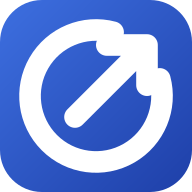
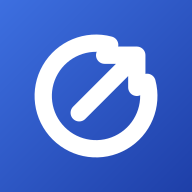
fix(nav): #878 L2 修后——设置 viewer 门控/跨 UA 设置子页映射/改密关闭收口/收起 aria/全幅图标
- Blocker1: 桌面/移动设置页壳补 AdminGuard，钻取子页对 viewer 整体回退（不只 logs）
- Blocker2: proxy 将桌面 UA 的 /m/settings/[section] 显式映射到 /settings?tab=，SettingsContent 读 tab 选分区
- Suggestion3: 改密弹窗取消/Esc/遮罩/关闭统一清空表单，isPending 禁止关闭
- Suggestion4: 收起侧栏导航 Link 固定 aria-label，补可访问名称回归
- Suggestion5: logo-app.svg 与 PWA/Apple PNG 改全幅不透明、mark 收进 maskable 安全区
- 新增 e2e/settings-redesign.spec.ts 覆盖上述回归；同步 visual-spec §20 与 README_ICONS

diff --git a/frontend/e2e/settings-redesign.spec.ts b/frontend/e2e/settings-redesign.spec.ts
@@ -1,0 +1,152 @@
+/** #878 L2 修后回归：设置角色门控 / 跨 UA 设置子页映射 / 改密弹窗关闭收口 / 收起侧栏可访问名称。
+ * 默认 admin 会话（auth.setup）；viewer 用例清凭证后走真实登录流（VIEWER/viewer123 种子）。
+ * 改密用例 mock /api/auth/password，不真改共享种子密码。
+ */
+import { test, expect, type Page } from '@playwright/test';
+import { collectPageErrors } from './helpers';
+
+const SECTIONS = [
+  { key: 'appearance', title: '外观与主题', tab: '通用' },
+  { key: 'datasource', title: '数据源', tab: '通用' },
+  { key: 'system', title: '系统信息', tab: '通用' },
+  { key: 'calendar', title: '交易日历同步', tab: '交易日历同步' },
+  { key: 'logs', title: '日志管理', tab: '日志管理' },
+] as const;
+
+/** 换 viewer 会话（沿用 portfolio-delete / cash-flows 的既有形态：清凭证后真实登录流） */
+async function loginAsViewer(page: Page): Promise<void> {
+  await page.context().clearCookies();
+  await page.evaluate(() => window.localStorage.clear());
+  await page.goto('/login');
+  await page.getByLabel('用户名').fill('VIEWER');
+  await page.getByLabel('密码').fill('viewer123');
+  await page.getByRole('button', { name: '登录' }).click();
+  await page.waitForURL(/\/(m\/)?dashboard/, { waitUntil: 'domcontentloaded' });
+}
+
+test.describe('设置角色门控（#878 L2 Blocker 1）', () => {
+  test('viewer 深链设置首页与钻取子页均被拦截，不渲染管理卡片', async ({ page }) => {
+    const errors = collectPageErrors(page, { tolerateLoginRaceNoise: true });
+    await loginAsViewer(page);
+    // 设置首页（桌面 /settings、移动 /m/settings 由 proxy 分流）+ 两个非 logs 钻取子页：
+    // 修复前钻取页只拦 logs，viewer 可直达数据源/日历；修复后整体回退到首页 AdminGuard。
+    for (const path of ['/settings', '/m/settings/datasource', '/m/settings/calendar']) {
+      await page.goto(path);
+      await expect(page.getByText('无权限访问', { exact: true })).toBeVisible();
+      await expect(page.getByRole('heading', { name: '设置', exact: true })).toHaveCount(0);
+      await expect(page.getByText('数据源', { exact: true })).toHaveCount(0);
+    }
+    expect(errors).toEqual([]);
+  });
+
+  test('viewer 仍可从账户菜单修改密码（设置外全角色入口）', async ({ page }) => {
+    await loginAsViewer(page);
+    await page.getByRole('button', { name: '用户菜单', exact: true }).click();
+    await page.getByRole('menuitem', { name: '修改密码' }).click();
+    await expect(
+      page.getByRole('dialog').filter({ hasText: '修改您的登录密码' }),
+    ).toBeVisible();
+  });
+
+  test('admin 五个移动钻取分区保持可达', async ({ page }, testInfo) => {
+    test.skip(
+      testInfo.project.name !== 'mobile',
+      '移动钻取分区仅移动项目（桌面为三 Tab，由跨 UA 映射用例覆盖）',
+    );
+    for (const s of SECTIONS) {
+      await page.goto(`/m/settings/${s.key}`);
+      await expect(page.getByRole('link', { name: '返回设置' })).toBeVisible();
+      await expect(page.getByRole('heading', { level: 1, name: s.title, exact: true })).toBeVisible();
+    }
+  });
+});
+
+test.describe('跨 UA 设置子页映射（#878 L2 Blocker 2）', () => {
+  test('桌面 UA 打开移动设置子页落到 /settings 对应 Tab，不 404', async ({ page }, testInfo) => {
+    test.skip(
+      testInfo.project.name !== 'chromium',
+      '桌面 UA 映射仅桌面项目（移动 UA 保持钻取，由另一条覆盖）',
+    );
+    for (const s of SECTIONS) {
+      await page.goto(`/m/settings/${s.key}`);
+      await page.waitForURL(/\/settings\?tab=/);
+      await expect(page.getByRole('tab', { name: s.tab, exact: true })).toHaveAttribute(
+        'aria-selected',
+        'true',
+      );
+    }
+    // 非法 section 落通用 Tab，不 404
+    await page.goto('/m/settings/bogus');
+    await page.waitForURL(/\/settings\?tab=/);
+    await expect(page.getByRole('tab', { name: '通用', exact: true })).toHaveAttribute(
+      'aria-selected',
+      'true',
+    );
+  });
+
+  test('移动 UA 打开设置子页保持钻取子页（行为不变）', async ({ page }, testInfo) => {
+    test.skip(testInfo.project.name !== 'mobile', '移动钻取仅移动项目');
+    for (const s of SECTIONS) {
+      await page.goto(`/m/settings/${s.key}`);
+      await expect(page.getByRole('link', { name: '返回设置' })).toBeVisible();
+      await expect(page.getByRole('heading', { level: 1, name: s.title, exact: true })).toBeVisible();
+    }
+  });
+});
+
+test.describe('改密弹窗关闭收口（#878 L2 Suggestion 3）', () => {
+  test('取消后重开表单为空；pending 时取消禁用且 Esc 不关闭', async ({ page }) => {
+    let release!: () => void;
+    const gate = new Promise<void>((resolve) => { release = resolve; });
+    await page.route('**/api/auth/password', async (route) => {
+      await gate;
+      await route.fulfill({ status: 200, json: { message: '密码修改成功' } });
+    });
+    await page.goto('/dashboard');
+    const openDialog = async () => {
+      await page.getByRole('button', { name: '用户菜单', exact: true }).click();
+      await page.getByRole('menuitem', { name: '修改密码' }).click();
+      await expect(page.getByLabel('原密码', { exact: true })).toBeVisible();
+    };
+    const fill = async () => {
+      await page.getByLabel('原密码', { exact: true }).fill('admin@2026');
+      await page.getByLabel('新密码', { exact: true }).fill('test-next-password');
+      await page.getByLabel('确认新密码', { exact: true }).fill('test-next-password');
+    };
+
+    // 取消 → 重开应为空表单（修复前取消绕过清空逻辑，重开残留）
+    await openDialog();
+    await fill();
+    await page.getByRole('button', { name: '取消', exact: true }).click();
+    await expect(page.getByLabel('原密码', { exact: true })).toHaveCount(0);
+    await openDialog();
+    await expect(page.getByLabel('原密码', { exact: true })).toHaveValue('');
+    await expect(page.getByLabel('新密码', { exact: true })).toHaveValue('');
+    await expect(page.getByLabel('确认新密码', { exact: true })).toHaveValue('');
+
+    // 提交进入 pending：取消禁用、Esc 不关闭（mutation 不可中止，避免误解为撤销）
+    await fill();
+    await page.getByRole('button', { name: '修改密码', exact: true }).click();
+    await expect(page.getByRole('button', { name: '取消', exact: true })).toBeDisabled();
+    await page.keyboard.press('Escape');
+    await expect(page.getByLabel('原密码', { exact: true })).toBeVisible();
+    release();
+    await page.waitForURL(/\/(m\/)?login/);
+  });
+});
+
+test.describe('收起侧栏导航可访问名称（#878 L2 Suggestion 4）', () => {
+  test('收起后主导航链接仍按名称可访问（aria-label，非仅 Tooltip）', async ({ page }, testInfo) => {
+    test.skip(
+      testInfo.project.name !== 'chromium',
+      '桌面侧栏仅桌面项目（移动无侧栏，账户/导航走底部 Tab）',
+    );
+    await page.goto('/dashboard');
+    await page.getByRole('button', { name: '收起侧栏', exact: true }).click();
+    for (const label of ['首页', '组合', '产品', '设置']) {
+      const link = page.getByRole('link', { name: label, exact: true });
+      await expect(link).toBeVisible();
+      await expect(link).toHaveAttribute('aria-label', label);
+    }
+  });
+});

diff --git a/frontend/src/components/shared/SettingsContent.tsx b/frontend/src/components/shared/SettingsContent.tsx
@@ -1,5 +1,7 @@
 "use client";
 
+import { Suspense } from "react";
+import { useSearchParams } from "next/navigation";
 import { Tabs, TabsContent, TabsList, TabsTrigger } from "@/components/ui/tabs";
 import { useRoleCheck } from "@/hooks/useAuth";
 import LogsContent from "@/components/shared/LogsContent";
@@ -16,9 +18,15 @@ import {
  * 交易日历同步、日志管理（admin）。原「修改密码」Tab 改为弹窗（PasswordCard 触发），
  * 平台/投资人管理移出设置（语境分布：平台在产品页、投资人在组合页）。
  * 移动端走分组列表 + 钻取子页（MobileSettingsList / app/m/settings/[section]），不用本组件。
+ *
+ * ?tab= 深链（#878 L2 Blocker 2）：移动设置子页在桌面 UA 经 proxy 映射到 /settings?tab=，
+ * 这里据此选中对应分区（calendar/logs，其余落通用）。useSearchParams 需 Suspense 边界。
  */
-export default function SettingsContent() {
+function SettingsTabs() {
   const { isAdmin } = useRoleCheck();
+  const searchParams = useSearchParams();
+  const tabParam = searchParams.get("tab");
+  const defaultTab = tabParam === "calendar" || tabParam === "logs" ? tabParam : "general";
 
   return (
     <div className="space-y-6">
@@ -27,7 +35,7 @@ export default function SettingsContent() {
         <p className="text-muted-foreground">系统设置和配置</p>
       </div>
 
-      <Tabs defaultValue="general" className="space-y-4">
+      <Tabs defaultValue={defaultTab} className="space-y-4">
         <TabsList>
           <TabsTrigger value="general">通用</TabsTrigger>
           <TabsTrigger value="calendar">交易日历同步</TabsTrigger>
@@ -53,5 +61,13 @@ export default function SettingsContent() {
         )}
       </Tabs>
     </div>
+  );
+}
+
+export default function SettingsContent() {
+  return (
+    <Suspense fallback={null}>
+      <SettingsTabs />
+    </Suspense>
   );
 }

diff --git a/frontend/src/components/shared/ChangePasswordDialog.tsx b/frontend/src/components/shared/ChangePasswordDialog.tsx
@@ -32,6 +32,14 @@ export default function ChangePasswordDialog({ open, onOpenChange }: ChangePassw
   const changePassword = useChangePassword();
   const [form, setForm] = useState({ old_password: "", new_password: "", confirm_password: "" });
 
+  // 统一关闭收口：取消/Esc/遮罩/右上角关闭都经此清空表单；提交进行中禁止关闭，
+  // 避免「取消」被误解为撤销已提交的改密（mutation 不可中止，成功后仍会登出）。
+  const requestClose = () => {
+    if (changePassword.isPending) return;
+    setForm({ old_password: "", new_password: "", confirm_password: "" });
+    onOpenChange(false);
+  };
+
   const handleSubmit = (e: React.FormEvent) => {
     e.preventDefault();
     if (form.new_password !== form.confirm_password) {
@@ -57,8 +65,8 @@ export default function ChangePasswordDialog({ open, onOpenChange }: ChangePassw
     <Dialog
       open={open}
       onOpenChange={(next) => {
-        if (!next) setForm({ old_password: "", new_password: "", confirm_password: "" });
-        onOpenChange(next);
+        if (next) onOpenChange(true);
+        else requestClose();
       }}
     >
       <DialogContent>
@@ -98,7 +106,7 @@ export default function ChangePasswordDialog({ open, onOpenChange }: ChangePassw
             />
           </div>
           <DialogFooter>
-            <Button type="button" variant="outline" onClick={() => onOpenChange(false)}>
+            <Button type="button" variant="outline" onClick={requestClose} disabled={changePassword.isPending}>
               取消
             </Button>
             <Button type="submit" disabled={changePassword.isPending}>

diff --git a/frontend/src/proxy.ts b/frontend/src/proxy.ts
@@ -1,6 +1,17 @@
 import { NextResponse } from "next/server";
 import type { NextRequest } from "next/server";
 
+// 移动设置钻取子页 section → 桌面 /settings 的 Tab（#878 L2 Blocker 2）。桌面设置是
+// 单页三 Tab，没有 /settings/[section] 同形动态路由，机械去 /m 会 404；appearance/
+// datasource/system 都落在「通用」Tab，calendar/logs 各自成 Tab。未知 section 落 general。
+const SETTINGS_SECTION_TAB: Record<string, string> = {
+  appearance: "general",
+  datasource: "general",
+  system: "general",
+  calendar: "calendar",
+  logs: "logs",
+};
+
 export function proxy(request: NextRequest) {
   const userAgent = request.headers.get("user-agent") || "";
   const isMobile = /Mobile|Android|iPhone|iPad|iPod/i.test(userAgent);
@@ -29,6 +40,14 @@ export function proxy(request: NextRequest) {
   }
 
   if (!isMobile && pathname.startsWith("/m")) {
+    // 设置钻取子页显式映射到 /settings?tab=（保留原 query），不落到不存在的同形路径
+    const section = pathname.match(/^\/m\/settings\/([^/]+)$/)?.[1];
+    if (section) {
+      const url = new URL("/settings", request.url);
+      url.search = request.nextUrl.search;
+      url.searchParams.set("tab", SETTINGS_SECTION_TAB[section] ?? "general");
+      return NextResponse.redirect(url);
+    }
     const desktopPath = pathname.slice(2) || "/";
     return redirectWithQuery(desktopPath);
   }

diff --git a/frontend/src/app/m/settings/[section]/page.tsx b/frontend/src/app/m/settings/[section]/page.tsx
@@ -16,15 +16,16 @@ import {
 
 /**
  * 移动设置钻取子页（#878）：/m/settings/[section]。非一级 Tab，MobileLayout 不渲染底部
- * 导航，本页自带「返回设置」出口。section 与 MobileSettingsList 的行一一对应；
- * 日志管理 admin-only，viewer 直达 URL 时弹回设置首页。
+ * 导航，本页自带「返回设置」出口。section 与 MobileSettingsList 的行一一对应。
+ * 设置整体 admin-only（#878 验收：viewer 深链拦截）：viewer 直达任意 section 都弹回
+ * 设置首页，由首页 AdminGuard 呈无权限态；非法 section 同样弹回。
  */
-const SECTIONS: Record<string, { title: string; admin?: boolean }> = {
+const SECTIONS: Record<string, { title: string }> = {
   appearance: { title: "外观与主题" },
   datasource: { title: "数据源" },
   system: { title: "系统信息" },
   calendar: { title: "交易日历同步" },
-  logs: { title: "日志管理", admin: true },
+  logs: { title: "日志管理" },
 };
 
 export default function MobileSettingsSectionPage() {
@@ -33,7 +34,7 @@ export default function MobileSettingsSectionPage() {
   const { isAdmin } = useRoleCheck();
   const section = params.section;
   const meta = SECTIONS[section];
-  const forbidden = !meta || (meta.admin && !isAdmin);
+  const forbidden = !meta || !isAdmin;
 
   useEffect(() => {
     if (forbidden) router.replace("/m/settings");

diff --git a/frontend/src/app/m/settings/page.tsx b/frontend/src/app/m/settings/page.tsx
@@ -1,9 +1,15 @@
 "use client";
 
+import AdminGuard from "@/components/shared/AdminGuard";
 import { MobileSettingsList } from "@/components/shared/settingsSections";
 
 // 薄壳页：MobileLayout 由 app/m/layout.tsx 统一提供。移动设置为分组列表 + 行级钻取
-// 子页（/m/settings/[section]），不再用桌面 Tabs（#878）。
+// 子页（/m/settings/[section]），不再用桌面 Tabs（#878）。设置 admin-only，viewer
+// 深链由 AdminGuard 拦截（#878 验收）；全角色改密走移动首页账户区。
 export default function MobileSettingsPage() {
-  return <MobileSettingsList />;
+  return (
+    <AdminGuard>
+      <MobileSettingsList />
+    </AdminGuard>
+  );
 }

diff --git a/frontend/src/app/settings/page.tsx b/frontend/src/app/settings/page.tsx
@@ -1,12 +1,17 @@
 "use client";
 
 import MainLayout from "@/components/layout/MainLayout";
+import AdminGuard from "@/components/shared/AdminGuard";
 import SettingsContent from "@/components/shared/SettingsContent";
 
+// 设置为 admin-only（navItems.adminOnly，#878 验收：viewer 深链须 AdminGuard 拦截）。
+// 全角色改密由设置外的 AccountMenu 提供，不依赖本页可达。
 export default function SettingsPage() {
   return (
     <MainLayout>
-      <SettingsContent />
+      <AdminGuard>
+        <SettingsContent />
+      </AdminGuard>
     </MainLayout>
   );
 }

diff --git a/frontend/src/components/layout/Sidebar.tsx b/frontend/src/components/layout/Sidebar.tsx
@@ -61,6 +61,7 @@ export default function Sidebar() {
               <Link
                 key={item.href}
                 href={item.href}
+                aria-label={item.label}
                 aria-current={isActive ? "page" : undefined}
                 className={cn(
                   "flex items-center rounded-lg text-sm font-medium transition-colors",

diff --git a/docs/design/visual-spec.md b/docs/design/visual-spec.md
@@ -363,7 +363,7 @@
 ### 20.2 桌面侧栏尺寸与收起
 
 - 侧栏 `components/layout/Sidebar.tsx`：展开 **224px（`w-56`）** / 收起 **56px（`w-14`）**，`transition-[width]`。宽度事实以组件 + `e2e/cash-flows.spec.ts`「sidebar 保 224px」用例为准（**不是 §5**，§5 是字号四级）。
-- 收起偏好持久化在 `uiStore.sidebarCollapsed`（persist name `ui-storage`），`toggleSidebarCollapse` 切换；收起态主导航仅图标 + 右侧 Tooltip 补标签，顶部 Logo 仅 mark。
+- 收起偏好持久化在 `uiStore.sidebarCollapsed`（persist name `ui-storage`），`toggleSidebarCollapse` 切换；收起态主导航仅图标 + 右侧 Tooltip 补标签，顶部 Logo 仅 mark。导航 `Link` 固定 `aria-label={item.label}`——收起后文本不渲染，Tooltip 只是视觉提示、不构成链接的 accessible name，读屏/语音控制靠 aria-label 区分各项。
 - **原顶部 `Navbar` 整体移除**：Logo / 账户 / 通知都收进侧栏。桌面窄屏（`<lg`，侧栏 `hidden lg:flex`）由 `MainLayout` 的 `lg:hidden` 紧凑头部（`h-14`：Logo + 通知铃铛 + 账户菜单）兜底账户可达；任意宽度下「用户菜单」触发器恰好一个可见（宽屏在侧栏、窄屏在头部），E2E `getByRole` 不歧义。
 
 ### 20.3 账户区位置
@@ -374,12 +374,14 @@
 
 ### 20.4 设置页结构（桌面三 Tab / 移动分组列表）
 
-- **桌面**（`SettingsContent.tsx`，仅桌面）：三 Tab——**通用**（合并 外观与主题 / 账户安全 / 数据源 / 系统信息 四卡）、**交易日历同步**、**日志管理**（admin-only，水合前按非 admin 不渲染，承继 #715）。分区卡片在 `settingsSections.tsx`（`AppearanceCard` / `PasswordCard` / `DataSourceCard` / `SystemInfoCard` / `CalendarSyncCard`）。
-- **移动**（`app/m/settings`）：分组列表 `MobileSettingsList`——**通用**组（外观与主题 / 数据源 / 修改密码 / 系统信息）+ **系统维护**组（交易日历同步 / 日志管理 admin-only）。行级钻取到 `app/m/settings/[section]`（appearance / datasource / system / calendar / logs），子页自带「返回设置」链接、**不渲染底部 Tab**（`MobileLayout` 只在一级 Tab 页显示底部导航，子页既非一级 Tab 也非 `mobileExitPaths` 出口）。非法/越权 section `router.replace("/m/settings")`。
-- **修改密码 = 弹窗，双入口**（`ChangePasswordDialog`）：用户菜单（全角色）+ 设置通用（桌面 `PasswordCard` / 移动列表行）。新密码长度规则 **≥6 位**（前端既有校验；后端 `schemas/auth.py` 无长度约束，issue #878 验收原写 ≥8 已回填订正为 ≥6）。弹窗触发器与提交按钮同名「修改密码」，模态 aria-hide 背景下 `getByRole` 同一时刻只解析到一个，E2E 顺序同名点击成立。
+- **设置整体 admin-only**（#878 验收：viewer「设置不可达 = 导航无项 + 深链 AdminGuard 拦截」）：桌面 `app/settings/page.tsx` 与移动 `app/m/settings/page.tsx` 页壳均包 `AdminGuard`（viewer 呈「无权限访问」EmptyState）；移动钻取子页对 viewer **整体**回退（`forbidden = !meta || !isAdmin`，不只 logs），弹回设置首页后由首页 AdminGuard 呈无权限态。全角色改密不依赖设置可达，由设置外的 `AccountMenu` / 移动首页账户区提供。
+- **桌面**（`SettingsContent.tsx`，仅桌面）：三 Tab——**通用**（合并 外观与主题 / 账户安全 / 数据源 / 系统信息 四卡）、**交易日历同步**、**日志管理**（admin-only，水合前按非 admin 不渲染，承继 #715）。分区卡片在 `settingsSections.tsx`（`AppearanceCard` / `PasswordCard` / `DataSourceCard` / `SystemInfoCard` / `CalendarSyncCard`）。`?tab=` 深链选中分区（calendar/logs，其余落通用），`useSearchParams` 包 Suspense。
+- **移动**（`app/m/settings`）：分组列表 `MobileSettingsList`——**通用**组（外观与主题 / 数据源 / 修改密码 / 系统信息）+ **系统维护**组（交易日历同步 / 日志管理）。行级钻取到 `app/m/settings/[section]`（appearance / datasource / system / calendar / logs），子页自带「返回设置」链接、**不渲染底部 Tab**（`MobileLayout` 只在一级 Tab 页显示底部导航，子页既非一级 Tab 也非 `mobileExitPaths` 出口）。非法/越权 section `router.replace("/m/settings")`。
+- **跨 UA 设置子页映射**（#878 L2 Blocker 2）：桌面设置是单页三 Tab、无 `/settings/[section]` 同形路由，`proxy.ts` 对桌面 UA 的 `/m/settings/[section]` 显式映射到 `/settings?tab=<对应分区>`（appearance/datasource/system→general、calendar→calendar、logs→logs，未知落 general），不机械去 `/m` 落 404。
+- **修改密码 = 弹窗，双入口**（`ChangePasswordDialog`）：用户菜单（全角色）+ 设置通用（桌面 `PasswordCard` / 移动列表行）。新密码长度规则 **≥6 位**（前端既有校验；后端 `schemas/auth.py` 无长度约束，issue #878 验收原写 ≥8 已回填订正为 ≥6）。弹窗触发器与提交按钮同名「修改密码」，模态 aria-hide 背景下 `getByRole` 同一时刻只解析到一个，E2E 顺序同名点击成立。**关闭收口**：取消/Esc/遮罩/右上角关闭统一经 `requestClose` 清空表单；`isPending` 时禁止关闭（mutation 不可中止，避免「取消」被误解为撤销已提交改密）。
 - 主题选择 `data-testid="theme-select"` 保留在 `AppearanceCard`（`e2e/theme.spec.ts` golden 依赖）；light token 逐字节不变（§17）。
 
 ### 20.5 品牌标识
 
 - 品牌 Logo 组件 `components/shared/BrandLogo.tsx`：开口环 + 破环箭头（`LogoMark`），环 = `hsl(var(--primary))`、箭头 = `hsl(var(--foreground))`，**双主题随 token 自适应**（token 是裸 HSL 三元组，须 `hsl()` 包裹才是合法颜色，直接 `var(--primary)` 会落回 `stroke:none` 不可见）；`mono` 变体两者皆 `currentColor`。字标 Invest = foreground、Ring = primary。
-- 静态资产：`src/app/icon.svg`（渐变 favicon，Next 自动识别）、`src/app/apple-icon.png`、`public/logo.svg` / `logo-mono.svg` / `logo-app.svg`、`public/icon-192.png` / `icon-512.png`（PWA，manifest 已引用）。app-icon 渐变 `#3D6FE0→#1E3FA8` + 白色 mark，是品牌固定资产色，**不随主题 token**（与 §16 「图标继承文字色」分工不同：品牌标识非 UI 图标，见 §16 例外）。
+- 静态资产：`src/app/icon.svg`（渐变 favicon，圆角方底 + 全尺寸 mark，浏览器标签不遮罩、保 16px 辨识）、`src/app/apple-icon.png`、`public/logo.svg` / `logo-mono.svg` / `logo-app.svg`、`public/icon-192.png` / `icon-512.png`（PWA，manifest purpose `any maskable`）。app-icon 渐变 `#3D6FE0→#1E3FA8` + 白色 mark，是品牌固定资产色，**不随主题 token**（与 §16 「图标继承文字色」分工不同：品牌标识非 UI 图标，见 §16 例外）。**maskable/Apple 全幅不透明**：`logo-app.svg` 与由其栅格化的 192/512/apple PNG 为无预圆角的全幅方底（透明角在遮罩/主屏幕会露底或黑角），mark 缩放 0.8 收进中心 40% 半径的 maskable 安全区防裁切；favicon 因用途不同保留圆角与全尺寸 mark。

diff --git a/frontend/public/README_ICONS.md b/frontend/public/README_ICONS.md
@@ -8,16 +8,16 @@ InvestRing 品牌标识为「环形 + 突破箭头」，规格与取色决策见
 | --- | --- | --- |
 | `logo.svg` | 浅色背景固定色 mark | 环 `#2B5CD7` / 箭头 `#1A2333` |
 | `logo-mono.svg` | 单色 mark（压印/单色场景） | 环与箭头皆 `#2B5CD7` |
-| `logo-app.svg` | 应用图标矢量源（圆角方底 + 白 mark） | 渐变 `#3D6FE0→#1E3FA8` + 白 |
-| `icon-192.png` | PWA 安装图标 192×192 | 由 `logo-app.svg` 栅格化 |
-| `icon-512.png` | PWA 安装 / splash 512×512 | 由 `logo-app.svg` 栅格化 |
+| `logo-app.svg` | 应用图标矢量源（**全幅不透明方底** + 白 mark，mark 收进 maskable 安全区） | 渐变 `#3D6FE0→#1E3FA8` + 白 |
+| `icon-192.png` | PWA 安装图标 192×192（`any maskable`） | 由 `logo-app.svg` 栅格化 |
+| `icon-512.png` | PWA 安装 / splash 512×512（`any maskable`） | 由 `logo-app.svg` 栅格化 |
 
-`manifest.json` 引用 `icon-192.png` / `icon-512.png`。
+`manifest.json` 引用 `icon-192.png` / `icon-512.png`，purpose 为 `any maskable`。maskable 与 Apple 主屏幕都会自行裁圆，故源与位图**全幅不透明、无预圆角**（透明角会露底/黑角），且 mark 缩放收进中心 40% 半径的安全区防裁切。
 
 ## 运行时自适应标识（非本目录）
 
-组件内双主题自适应标识走 `src/components/shared/BrandLogo.tsx`（环 = `var(--primary)`、箭头 = `var(--foreground)`，随主题 token）；Next 自动识别的 favicon 为 `src/app/icon.svg`、apple-touch-icon 为 `src/app/apple-icon.png`。本目录的固定色 SVG 用于品牌静态场景，不随主题切换。
+组件内双主题自适应标识走 `src/components/shared/BrandLogo.tsx`（环 = `hsl(var(--primary))`、箭头 = `hsl(var(--foreground))`，随主题 token；token 是裸 HSL 三元组须 `hsl()` 包裹）；Next 自动识别的 favicon 为 `src/app/icon.svg`（圆角方底 + 全尺寸 mark，浏览器标签页不遮罩、保 16px 辨识）、apple-touch-icon 为 `src/app/apple-icon.png`（由 `logo-app.svg` 栅格化的全幅不透明版）。本目录的固定色 SVG 用于品牌静态场景，不随主题切换。
 
 ## 更新约定
 
-改动品牌图形时同步更新矢量源（`logo-app.svg`）与栅格 PNG（192/512），并保持 `src/app/icon.svg` / `apple-icon.png` 一致；PNG 须由矢量源栅格化，不手绘位图。
+改动品牌图形时同步更新矢量源（`logo-app.svg`）与栅格 PNG（192/512 + `src/app/apple-icon.png`）；favicon `src/app/icon.svg` 共用同一 mark/渐变但保留圆角与全尺寸 mark（用途不同，不要求与全幅版逐像素一致）。PNG 须由矢量源栅格化，不手绘位图；改 `logo-app.svg` 后须复核位图四角与整幅 alpha 不透明、mark 在安全区内。
